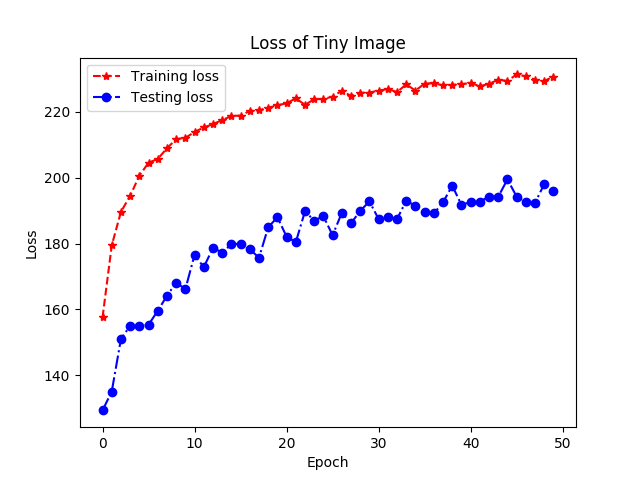
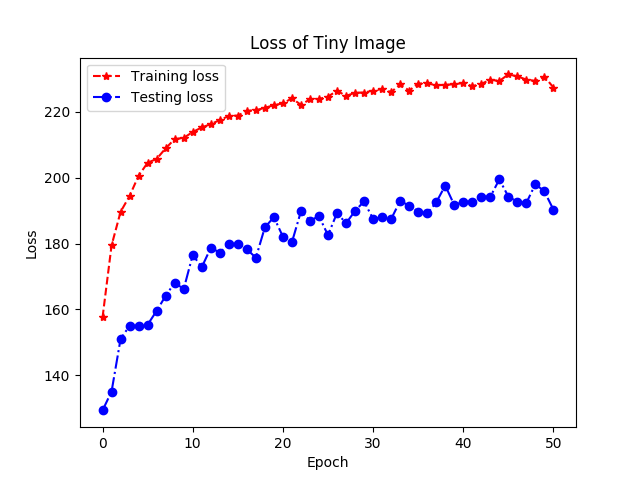
update

diff --git a/hwk6/train.py b/hwk6/train.py
@@ -23,9 +23,7 @@ parser.add_argument('--save', type=str, help='Directory to save trained model af
 # arguments from sys.argv, converts to appropriate type and takes defined action (default: 'store')
 args = parser.parse_args()
 
-
 class AlexNet(nn.Module):
-
     def __init__(self, num_classes=200):
         super(AlexNet, self).__init__()
         self.features = nn.Sequential(
@@ -64,7 +62,7 @@ class AlexNet(nn.Module):
 class Model:
     def __init__(self):
         self.train_batch_size =  100
-        self.epoch = 50
+        self.epoch = 51
         self.rate = 0.1 
         self.val_batch_size = 10
         def create_val_folder():
@@ -270,7 +268,10 @@ class Model:
                     'testing_loss': self.testing_loss,
                     'testing_acc': self.testing_acc,
                     'training_acc': self.training_acc,
-                    'time': self.time
+                    'time': self.time,
+                    'classes': self.classes,
+                    'tiny_class': self.tiny_classes
+
                     }
             save(state,better) 
         if plot == True:
